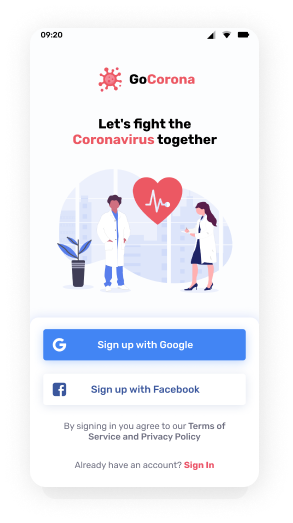
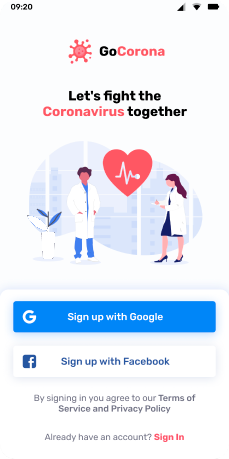
добавил фоновые прямоугольники

diff --git a/src/components/main/style.css b/src/components/main/style.css
@@ -78,24 +78,53 @@ button p{
     
 }
 .mobile_wrapper{
+    position: relative;
     display: flex;
     min-width: 338px;
     height: 542px;
     align-items: flex-end;
     justify-content: flex-end;
+    margin: 79px 0px 79px 48px;
     
 }
 .mobile_wrapper img{
     width: 229px;
-    height: 471px;
-    margin-left: 14px;
+    height: 459px;
+    margin: 56px 38px 15px 71px;
+    box-shadow: 2px 4px 32px 0px rgba(0, 0, 0, 0.12);
+
 }
 .features{
     display: flex;
     flex-wrap: wrap;
     width: 379px;
     height: 238px;
-    margin-left: 30px;
     max-width: 1057px;
     min-height: 100%;
+}
+.rectangle_19{
+    position: absolute;
+    width: 147px;
+    height: 147px;
+    left: 0px;
+    top: 0px;
+    z-index: -1;
+    background: #EC5863;
+    border-radius: 30px;
+}
+.small{
+    width: 77px;
+    height: 77px;
+    background: #EC5863;
+    border-radius: 30px;
+    z-index: -1;
+    position: absolute;
+}
+.rectangle_20{
+    right: 0;
+    bottom: 92px;
+}
+.rectangle_21{
+    bottom: 0px;
+    left: 32px;
 }

diff --git a/src/components/main/main.jsx b/src/components/main/main.jsx
@@ -28,6 +28,9 @@ export default function Main() {
         </div>
         <div className='stay_safe'>
           <div className='mobile_wrapper'>
+            <div className='rectangle_19'></div>
+            <div className='rectangle_20 small'></div>
+            <div className='rectangle_21 small'></div>
             <img src={image3} alt='App'/>
           </div>
           <div className='features'>
